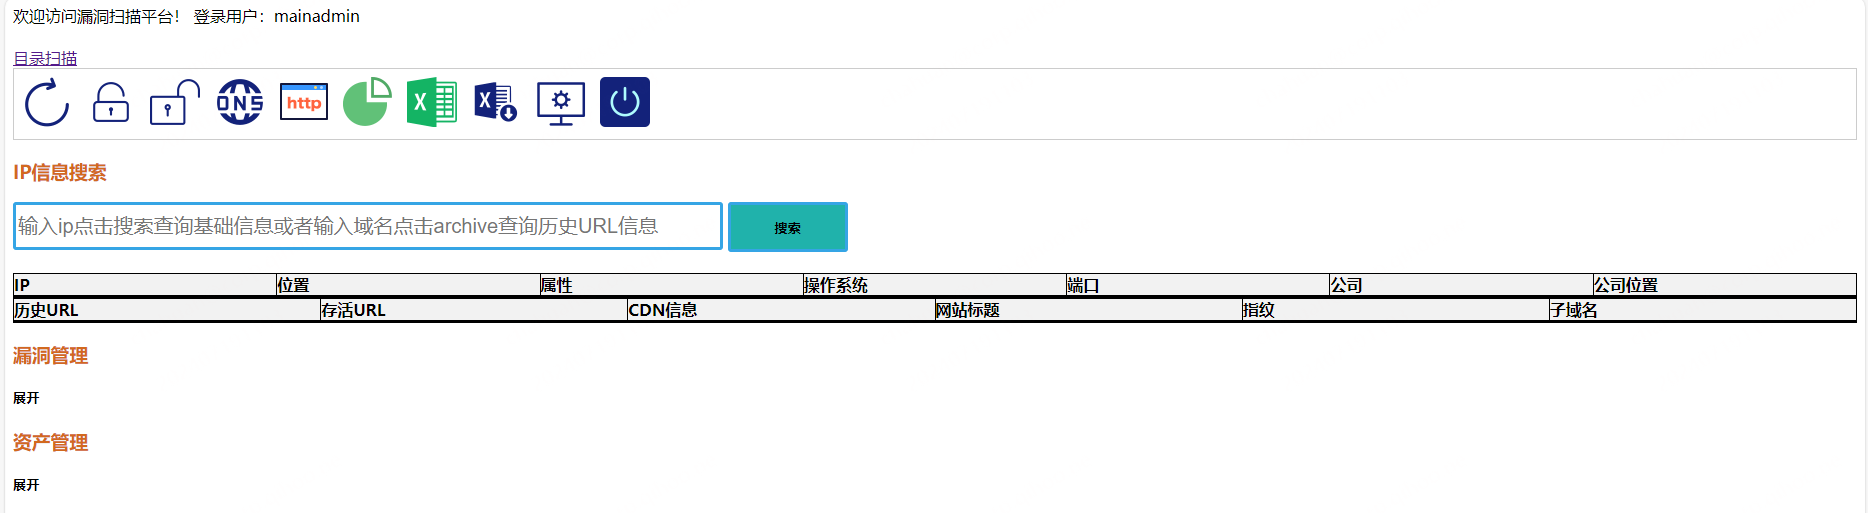
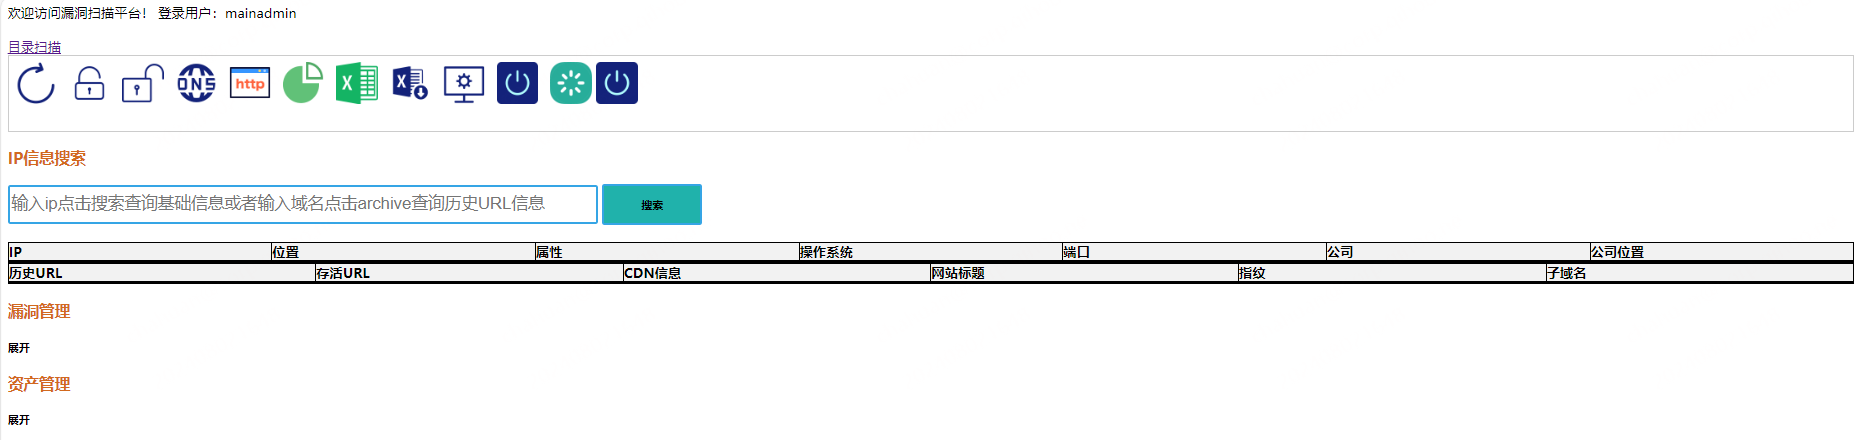
新增按钮提示信息、优化文本框输入内容校验

diff --git a/templates/index.html b/templates/index.html
@@ -13,40 +13,56 @@
 <body>
 	<span align="left">欢迎访问漏洞扫描平台！</span> <span align="right">登录用户：{{data20}}</span><br><br>
 	<a href="###" onclick="jumpdirscanpage()">目录扫描</a>
+	
 	<table border="1">
 		<tr>
 			<td>
+		
 				<img src="{{ url_for('static', filename='image/shuaxin.png') }}" width="50" height="50"
-					style="cursor: pointer;" onclick="fanhui()">&nbsp;&nbsp;
+					style="cursor: pointer;" onclick="fanhui()"  onmouseenter="caozuo1func()" onmouseleave="caozuo11func()">&nbsp;&nbsp; 
 				<img src="{{ url_for('static', filename='image/mainsuoding.png') }}" width="50" height="50"
-					style="cursor: pointer;" onclick="stopbutton()">&nbsp;&nbsp;
+					style="cursor: pointer;" onclick="stopbutton()" onmouseenter="caozuo2func()" onmouseleave="caozuo22func()">&nbsp;&nbsp;
 				<img src="{{ url_for('static', filename='image/mainjiesuo.png') }}" width="50" height="50"
-					style="cursor: pointer;" onclick="startbutton()">&nbsp;&nbsp;
+					style="cursor: pointer;" onclick="startbutton()" onmouseenter="caozuo3func()" onmouseleave="caozuo33func()">&nbsp;&nbsp;
 				<img src="{{ url_for('static', filename='image/maindns.png') }}" width="50" height="50"
-					style="cursor: pointer;" onclick="ceyednsfunc()">&nbsp;&nbsp;
+					style="cursor: pointer;" onclick="ceyednsfunc()" onmouseenter="caozuo4func()" onmouseleave="caozuo44func()">&nbsp;&nbsp;
 				<img src="{{ url_for('static', filename='image/mainhttp.png') }}" width="50" height="50"
-					style="cursor: pointer;" onclick="ceyehttpfunc()">&nbsp;&nbsp;
+					style="cursor: pointer;" onclick="ceyehttpfunc()" onmouseenter="caozuo5func()" onmouseleave="caozuo55func()">&nbsp;&nbsp;
 				<img src="{{ url_for('static', filename='image/reportzhenghe.png') }}" width="50" height="50"
-					style="cursor: pointer;" onclick="reporttotalfunc()">&nbsp;&nbsp;
+					style="cursor: pointer;" onclick="reporttotalfunc()" onmouseenter="caozuo6func()" onmouseleave="caozuo66func()">&nbsp;&nbsp;
 				<img src="{{ url_for('static', filename='image/mainyulanexcel.png') }}" width="50" height="50"
-					style="cursor: pointer;" onclick="total_report_yulan_func()">&nbsp;&nbsp;
+					style="cursor: pointer;" onclick="total_report_yulan_func()" onmouseenter="caozuo7func()" onmouseleave="caozuo77func()">&nbsp;&nbsp;
 				<img src="{{ url_for('static', filename='image/maindownloadreport.png') }}" width="50" height="50"
-					style="cursor: pointer;" onclick="reportdownloadfunc()">&nbsp;&nbsp;
+					style="cursor: pointer;" onclick="reportdownloadfunc()" onmouseenter="caozuo8func()" onmouseleave="caozuo88func()">&nbsp;&nbsp;
 				<img src="{{ url_for('static', filename='image/mainsystemoper.png') }}" width="50" height="50"
-					style="cursor: pointer;" onclick="openModal()">&nbsp;&nbsp;
+					style="cursor: pointer;" onclick="openModal()" onmouseenter="caozuo9func()" onmouseleave="caozuo99func()">&nbsp;&nbsp;
 				<img src="{{ url_for('static', filename='image/stopservice.png') }}" width="50" height="50"
-					style="cursor: pointer;" onclick="signoutfunc()">&nbsp;&nbsp;
+					style="cursor: pointer;" onclick="signoutfunc()" onmouseenter="caozuo9afunc()" onmouseleave="caozuo99afunc()">&nbsp;&nbsp;
+				<img src="{{ url_for('static', filename='image/restart.png') }}" width="50" height="50"
+					style="cursor: pointer;" onclick="restart_service_func()" onmouseenter="caozuo9bfunc()" onmouseleave="caozuo99bfunc()">
+
+				<img src="{{ url_for('static', filename='image/stopservice.png') }}" width="50" height="50"
+					style="cursor: pointer;" onclick="stopbackservicefunc()" onmouseenter="caozuo9cfunc()" onmouseleave="caozuo99cfunc()">
+				<br><br>
+				<span id="tishisp1" style="display: none; color: magenta;" >刷新系统按钮</span>
+				<span id="tishisp2" style="display: none; color: magenta;" >锁定按钮</span>
+				<span id="tishisp3" style="display: none; color: magenta;" >解锁按钮</span>
+				<span id="tishisp4" style="display: none; color: magenta;" >dnslog平台dns日志</span>
+				<span id="tishisp5" style="display: none; color: magenta;" >dnslog平台http日志</span>
+				<span id="tishisp6" style="display: none; color: magenta;" >报告整合</span>
+				<span id="tishisp7" style="display: none; color: magenta;" >报告预览</span>
+				<span id="tishisp8" style="display: none; color: magenta;" >报告下载</span>
+				<span id="tishisp9" style="display: none; color: magenta;" >系统管理</span>
+				<span id="tishisp9a" style="display: none; color: magenta;" >注销系统</span>
+				<span id="tishisp9b" style="display: none; color: magenta;" >软重启系统</span>
+				<span id="tishisp9c" style="display: none; color: magenta;" >关闭后端服务</span>
 			</td>
 		</tr>
 	</table>
 
 	<div id="modal" class="modal">
 		<div class="modal-content">
-			<img src="{{ url_for('static', filename='image/restart.png') }}" width="50" height="50"
-				style="cursor: pointer;" onclick="restart_service_func()">
-			<img src="{{ url_for('static', filename='image/stopservice.png') }}" width="50" height="50"
-				style="cursor: pointer;" onclick="stopbackservicefunc()">
-			<br><br>
+			
 			<strong style="color:coral">全局视角</strong>
 			<table border="1">
 				<tr>

diff --git a/static/js/common.js b/static/js/common.js
@@ -1580,7 +1580,7 @@ function one_click_scan_func() {
 }
 
 
-一键预览所有报告
+// 一键预览所有报告
 function one_click_preview_all_report_finc() {
     window.open("/showsubdomainreport/");
     window.open("/showbbscanreport/");
@@ -1596,4 +1596,131 @@ function one_click_preview_all_report_finc() {
     window.open(ipvalue+":18888/");
     window.open(ipvalue+":16666/");
     window.open(ipvalue+":15555/");
+}
+
+
+// 操作按钮提示语
+function caozuo1func() {
+    var tishisp1 = document.getElementById("tishisp1");
+    tishisp1.style.display = "block";
+}
+
+function caozuo11func() {
+    var tishisp1 = document.getElementById("tishisp1");
+    tishisp1.style.display = "none";
+}
+
+
+function caozuo2func() {
+    var tishisp2 = document.getElementById("tishisp2");
+    tishisp2.style.display = "block";
+}
+
+function caozuo22func() {
+    var tishisp2 = document.getElementById("tishisp2");
+    tishisp2.style.display = "none";
+}
+
+function caozuo3func() {
+    var tishisp3 = document.getElementById("tishisp3");
+    tishisp3.style.display = "block";
+}
+
+function caozuo33func() {
+    var tishisp3 = document.getElementById("tishisp3");
+    tishisp3.style.display = "none";
+}
+
+function caozuo4func() {
+    var tishisp4 = document.getElementById("tishisp4");
+    tishisp4.style.display = "block";
+}
+
+function caozuo44func() {
+    var tishisp4 = document.getElementById("tishisp4");
+    tishisp4.style.display = "none";
+}
+
+
+function caozuo5func() {
+    var tishisp5 = document.getElementById("tishisp5");
+    tishisp5.style.display = "block";
+}
+
+function caozuo55func() {
+    var tishisp5 = document.getElementById("tishisp5");
+    tishisp5.style.display = "none";
+}
+
+function caozuo6func() {
+    var tishisp6 = document.getElementById("tishisp6");
+    tishisp6.style.display = "block";
+}
+
+function caozuo66func() {
+    var tishisp6 = document.getElementById("tishisp6");
+    tishisp6.style.display = "none";
+}
+
+function caozuo7func() {
+    var tishisp7 = document.getElementById("tishisp7");
+    tishisp7.style.display = "block";
+}
+
+function caozuo77func() {
+    var tishisp7 = document.getElementById("tishisp7");
+    tishisp7.style.display = "none";
+}
+
+function caozuo8func() {
+    var tishisp8 = document.getElementById("tishisp8");
+    tishisp8.style.display = "block";
+}
+
+function caozuo88func() {
+    var tishisp8 = document.getElementById("tishisp8");
+    tishisp8.style.display = "none";
+}
+
+
+function caozuo9func() {
+    var tishisp9 = document.getElementById("tishisp9");
+    tishisp9.style.display = "block";
+}
+
+function caozuo99func() {
+    var tishisp9 = document.getElementById("tishisp9");
+    tishisp9.style.display = "none";
+}
+
+
+function caozuo9afunc() {
+    var tishisp9a = document.getElementById("tishisp9a");
+    tishisp9a.style.display = "block";
+}
+
+function caozuo99afunc() {
+    var tishisp9a = document.getElementById("tishisp9a");
+    tishisp9a.style.display = "none";
+}
+
+
+function caozuo9bfunc() {
+    var tishisp9b = document.getElementById("tishisp9b");
+    tishisp9b.style.display = "block";
+}
+
+function caozuo99bfunc() {
+    var tishisp9b = document.getElementById("tishisp9b");
+    tishisp9b.style.display = "none";
+}
+
+function caozuo9cfunc() {
+    var tishisp9c = document.getElementById("tishisp9c");
+    tishisp9c.style.display = "block";
+}
+
+function caozuo99cfunc() {
+    var tishisp9c = document.getElementById("tishisp9c");
+    tishisp9c.style.display = "none";
 }

diff --git a/scan_main_web.py b/scan_main_web.py
@@ -321,6 +321,7 @@ def submit_data():
         # 筛选后资产时间线更新
         basic.assets_status_update('手工录入资产完成')
         data = request.json.get('lines', [])
+        print(data)
         if '' in  data:
             result_rule = "输入参数不能为空"
 
@@ -329,14 +330,20 @@ def submit_data():
 
         if 'alert' in data or 'select' in data or '<' in data or '>' in data or 'union' in data:
             result_rule = "请勿进行安全测试！"
+
         else:
-            #列表中数据存入文件中
-            f = open(file='/TIP/batch_scan_domain/url.txt',mode='w')
-            for line in data:
-                f.write(str(line)+"\n")
-            f.close()
-            file_line = os.popen('bash ./finger.sh textarea_url_num').read()
-            result_rule = "已成功添加"+str(file_line)+"条资产"
+            #  2024.8.2 校验url格式,只允许https://或者https://格式
+            for ii in data:
+                if "http://"  not in ii and "https://" not in ii:
+                    result_rule = "请勿输入非URL字段！"
+                else:
+                    #列表中数据存入文件中
+                    f = open(file='/TIP/batch_scan_domain/url.txt',mode='w')
+                    for line in data:
+                        f.write(str(line)+"\n")
+                    f.close()
+                    file_line = os.popen('bash ./finger.sh textarea_url_num').read()
+                    result_rule = "已成功添加"+str(file_line)+"条资产"
             
             #资产备份
             os.popen('cp /TIP/batch_scan_domain/url.txt /TIP/batch_scan_domain/url_back.txt')
